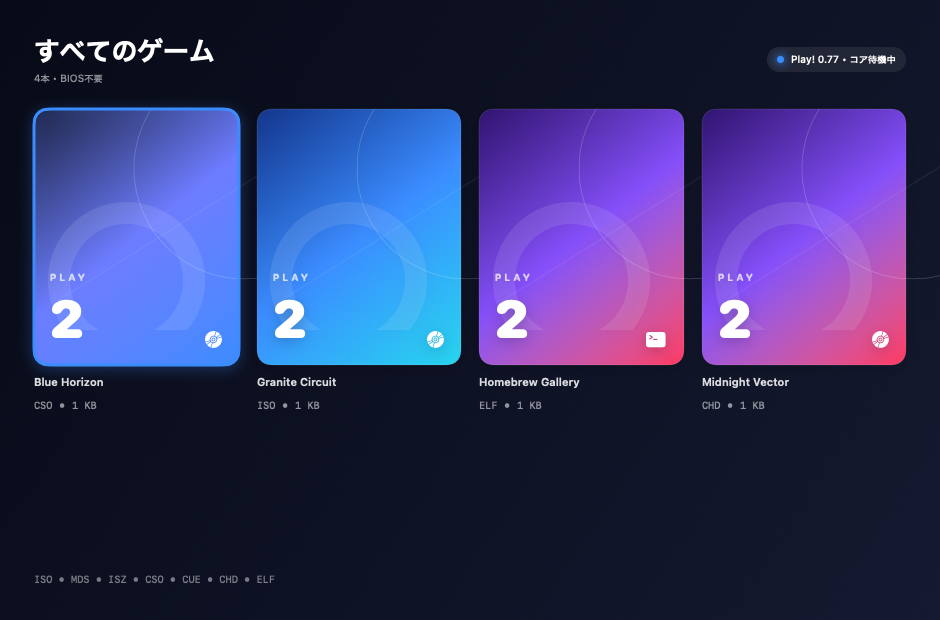
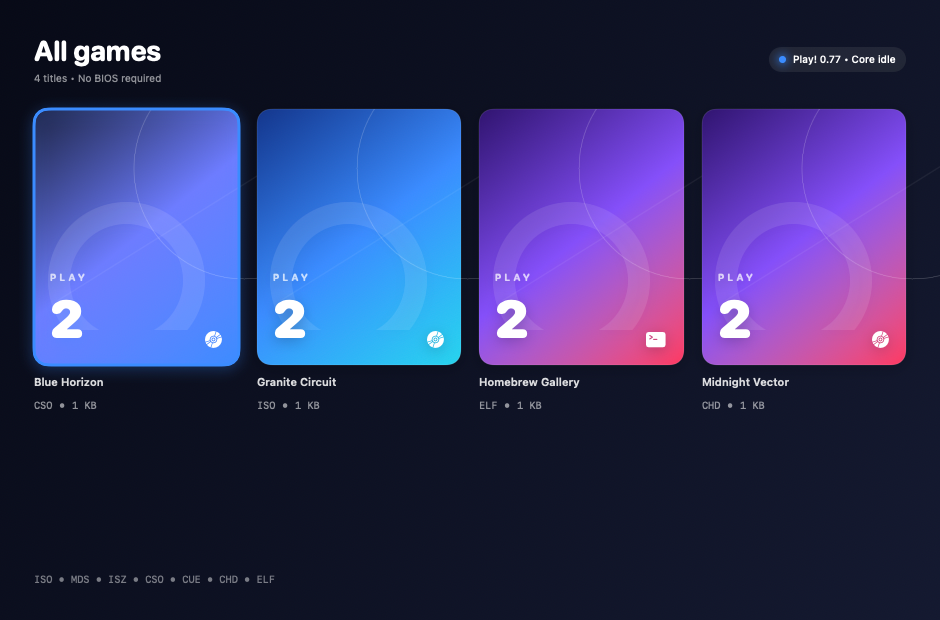
Publish permanent multilingual teaser

Changed region(s): [[0.0309, 0.0613, 0.216, 0.1532], [0.833, 0.0919, 0.9564, 0.1226]]

diff --git a/Tests/PS2EmulatorTests/CoreTests.swift b/Tests/PS2EmulatorTests/CoreTests.swift
@@ -218,15 +218,15 @@ final class CoreTests: XCTestCase {
             VStack(alignment: .leading, spacing: 24) {
                 HStack {
                     VStack(alignment: .leading, spacing: 5) {
-                        Text("すべてのゲーム")
+                        Text("All games")
                             .font(.system(size: 28, weight: .bold, design: .rounded))
                             .foregroundStyle(.white)
-                        Text("\(library.games.count)本 • BIOS不要")
+                        Text("\(library.games.count) titles • No BIOS required")
                             .font(.caption)
                             .foregroundStyle(.white.opacity(0.55))
                     }
                     Spacer()
-                    EngineStatusPill(isRunning: false, text: "Play! 0.77 • コア待機中")
+                    EngineStatusPill(isRunning: false, text: "Play! 0.77 • Core idle")
                         .foregroundStyle(.white)
                 }
 

diff --git a/site/README.md b/site/README.md
@@ -4,15 +4,16 @@ A dependency-free, multilingual static teaser for the four PS2 Emu launcher targ
 
 ## Routes and languages
 
-English is served at `/`. Localized routes are generated for:
+The permanent GitHub Pages site is served below `/ps2-emu/`. English is at
+`/ps2-emu/`; localized routes are generated for:
 
-- Japanese: `/ja/`
-- Spanish: `/es/`
-- French: `/fr/`
-- German: `/de/`
-- Brazilian Portuguese: `/pt-BR/`
-- Korean: `/ko/`
-- Simplified Chinese: `/zh-CN/`
+- Japanese: `/ps2-emu/ja/`
+- Spanish: `/ps2-emu/es/`
+- French: `/ps2-emu/fr/`
+- German: `/ps2-emu/de/`
+- Brazilian Portuguese: `/ps2-emu/pt-BR/`
+- Korean: `/ps2-emu/ko/`
+- Simplified Chinese: `/ps2-emu/zh-CN/`
 
 Each locale also has `/privacy/`, `/terms/`, `/support/`, `/refund-policy/` and `/commercial-disclosure/` beneath its locale prefix. English legal routes live at the root. Every generated page has a matching `lang`, Open Graph metadata and a Twitter summary card. With a real production origin, the build also emits canonical, all locale `hreflang` entries, `x-default` and a sitemap.
 
@@ -22,14 +23,24 @@ Requires Node.js 24 and Python 3 only for the convenience preview server. No npm
 
 ```sh
 cd '/path/to/ps2-emulator/site'
-npm run build
 npm test
 npm run preview
 ```
 
-Then open `http://localhost:4173/`. The deployable directory is `dist/`. Stop the preview server with `Ctrl-C` when finished.
+`npm test` first builds and verifies the host-root `noindex` preview, then builds
+and verifies the permanent GitHub Pages form. The final `dist/` is therefore the
+production Pages artifact. Use `npm run test:preview` or
+`npm run test:production` when only one form is needed. After `npm run preview`,
+open `http://localhost:4173/`; the local server maps the Pages artifact at its
+filesystem root, so direct navigation is only a build inspection convenience.
+Stop the preview server with `Ctrl-C` when finished.
 
-Before a real deployment, replace `https://ps2-emu.example` in `site.config.mjs` with the final HTTPS origin and rebuild. A `.example` build deliberately emits `noindex,nofollow`, a blocking `robots.txt`, no sitemap, no canonical and no placeholder `hreflang` URLs. This makes a temporary preview non-crawlable and prevents it from pretending to be production-ready.
+The checked-in production address is
+`https://tenten-10-10.github.io/ps2-emu/`. Preview builds override the origin
+with `https://ps2-emu.example` and clear the base path. A `.example` build
+deliberately emits `noindex,nofollow`, a blocking `robots.txt`, no sitemap, no
+canonical and no placeholder `hreflang` URLs. This prevents a temporary preview
+from pretending to be production-ready.
 
 ## Four-platform download gate
 
@@ -90,13 +101,36 @@ The hosted Ko-fi page opens by top-level navigation after its allowlisted URL pa
 
 ## Static deployment
 
-Deploy only the contents of `dist/` to a static host. The checked-in `vercel.json` pins Vercel to the reviewed build command and `dist/` output, preserves directory-style routes, and applies the production HTTP security headers described above. `.vercelignore` is an explicit upload allowlist: Vercel receives only the static-site build inputs, not local captures, test output, generated `dist/`, or Playwright work files. Example settings for other hosts:
+`.github/workflows/pages.yml` is the permanent free-hosting path. It runs both
+site modes, uploads only the final production `dist/`, and deploys through the
+GitHub Pages environment. Every GitHub Action is pinned to a full commit SHA.
+The project URL requires the checked-in `/ps2-emu` base path.
 
-- build command: `npm run build && npm test`
+GitHub Pages does not allow this project repository to set arbitrary HTTP
+security headers or the host-root `/robots.txt`. The pages therefore retain the
+restrictive CSP/referrer meta policy, expose canonical/hreflang links and link
+their project sitemap explicitly. There is no form, account, embedded payment,
+analytics, sensitive user data, or enabled download on this teaser. A future
+custom-domain/Vercel production deployment can add the stronger HTTP header
+layer after owner login and domain review.
+
+The checked-in `vercel.json` is preview-only. It runs
+`npm run test:preview`, publishes only `dist/`, preserves directory-style routes,
+and applies the HTTP security headers described above. `.vercelignore` is an
+explicit upload allowlist: Vercel receives only the static-site build inputs,
+not local captures, test output, generated `dist/`, or Playwright work files.
+Example settings for another root-origin production host:
+
+- build command: `npm run test:production`
 - output directory: `dist`
 - Node.js: 24.x
 - redirects/rewrites: none required; preserve directory-style `index.html` routes
 
-For a production Vercel deployment, replace the placeholder origin and pass `npm test` first. Use a preview deployment before promotion, and do not promote it until the final domain, legal copy, download gates and tip gates have been reviewed. A temporary anonymous preview intentionally keeps the placeholder origin, so it remains `noindex` and cannot be treated as production.
+For a future production Vercel deployment, set `PS2_SITE_URL` and
+`PS2_SITE_BASE_PATH` to the reviewed root-origin values and change the Vercel
+build command only in the same reviewed release. Use a preview before promotion.
+A temporary anonymous Vercel deployment intentionally stays `noindex` and cannot
+be treated as production.
 
-No persistent production deployment, DNS change, payment activation or analytics setup has been performed by this project.
+No custom domain, DNS change, payment activation or analytics setup is performed
+by this project.
